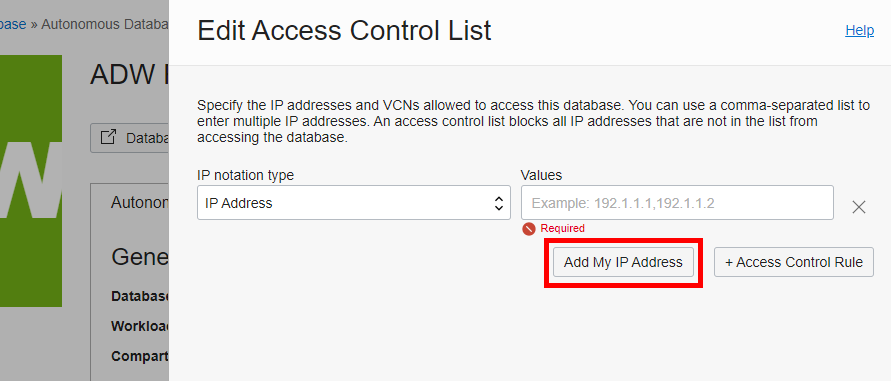
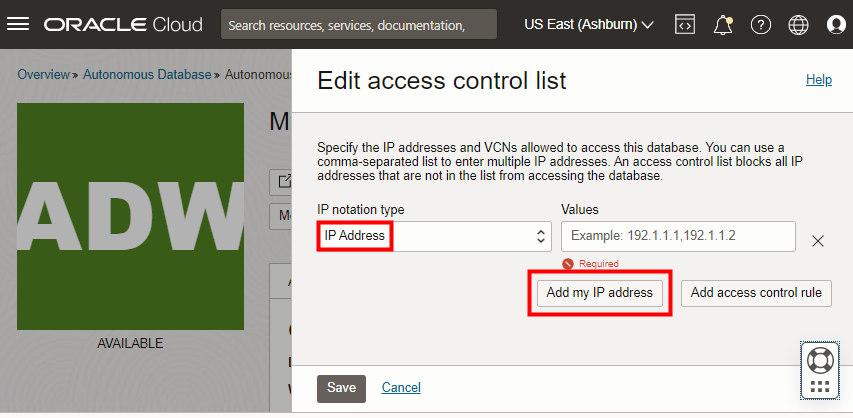
Workshops 142 and 141 Changes per Anoosha Pilli discussions to Workshop 142 and updates to Workshop 1 not-yet-visible data pipeline lab
Workshop 142 edits per discussion with Anoosha Pilli: changed Lab 3 with temporary workaround to bug preventing connecting SQL Developer in green button environment - temporarily using CIDR Block IP notation type with zero values, instead of IP Address as the IP notation type. Repositioned the Lab 5 final step instructing to change scaling back to 1 OCPU and 1 GB storage, making it the first step in Lab 7 on disaster recovery. Changed NOTES in several labs to use red font to be more prominent.

Workshop 141, in the not-yet-visible-in-manifest.json Lab 9 (optional): Create Data Pipelines for Continuous Data Import and Export, I changed the example to use MovieStream WEATHER data. This lab won't be made visible until Marty Gubar reviews it.

diff --git a/shared/adb-load-analyze-workshop/create-data-pipelines/create-data-pipelines.md b/shared/adb-load-analyze-workshop/create-data-pipelines/create-data-pipelines.md
@@ -53,7 +53,7 @@ Begin by creating a data pipeline to either load data or export data continuousl
      DBMS_CLOUD_PIPELINE.CREATE_PIPELINE(
         pipeline_name => 'MY_FIRST_PIPELINE',
         pipeline_type => 'LOAD',
-        description   => 'Load customer sales data from object store into a table'
+        description   => 'Load weather data from object store into a table'
     );
     END;
     /
@@ -62,7 +62,7 @@ Begin by creating a data pipeline to either load data or export data continuousl
 
 ## Task 2: Configure the data pipeline attributes
 
-Next, you will set the appropriate attributes for the data pipeline, such as the type of data files (for example JSON, CSV) and the location where the data files will exist (for example an object store bucket or file folder). In this lab, the data source will be a custsales CSV file that you will download and then upload to your object storage bucket. **CUSTSALES** will be the destination table in your autonomous database that your pipeline will load data into.
+Next, you will set the appropriate attributes for the data pipeline, such as the type of data files (for example JSON, CSV) and the location where the data files will exist (for example an object store bucket or file folder). In this lab, the data source will be a weather CSV file that you will download and then upload to your object storage bucket. **WEATHER** will be the destination table that you create in your autonomous database that your pipeline will load data into.
 
 1. Define the attributes for the data pipeline. The pipeline will import all data files of **CSV type** from an object storage bucket location at an interval of every 30 minutes (the default is 15 minutes) with a priority selected as High (that is, the HIGH database service name).
 
@@ -80,8 +80,8 @@ Next, you will set the appropriate attributes for the data pipeline, such as the
        attributes => JSON_OBJECT(
                     'credential_name' VALUE 'OBJ_STORE_CRED',
                     'location' VALUE 'https://objectstorage.us-phoenix-1.oraclecloud.com/n/namespace-string/b/mybucket/o/',
-                    'table_name' VALUE 'CUSTSALES',
-                    'format' VALUE '{"type": "json"}',
+                    'table_name' VALUE 'WEATHER',
+                    'format' VALUE '{"type": "csv"}',
                     'priority' VALUE 'HIGH', 'interval' VALUE '30') );
 
     END;
@@ -125,7 +125,7 @@ Before we activate your configured pipeline, let's test that it works. Call the 
     ```
     <copy>
     -- More details about the load operation in USER_LOAD_OPERATIONS.
-    SELECT   owner_name, type, status, start_time, update_time, status_table, rows_loaded, logfile_table, badfile_table
+    SELECT owner_name, type, status, start_time, update_time, status_table, rows_loaded, logfile_table, badfile_table
         FROM user_load_operations
         WHERE id = (SELECT operation_id
                    FROM user_cloud_pipelines
@@ -159,9 +159,21 @@ Before proceeding to Start your pipeline, you may use the `DBMS_CLOUD_PIPELINE.R
     </copy>
     ```
 
-## Task 5: Start the data pipeline
+## Task 5: Create the WEATHER table in the target Autonomous database
 
-Now that you have tested that your data pipeline is successfully configured, all you have left to do is simply start the pipeline.
+Before starting the data pipeline, create the WEATHER table in your target autonomous database that the data pipeline will load, when it detects data that you upload  to your object store.
+
+1. Run the following code snippet in your SQL worksheet:
+
+    ```
+    <copy>
+    CREATE TABLE WEATHER (location VARCHAR2(20), zipcode VARCHAR2(20), reported_date DATE, wind_avg NUMBER, precipitation NUMBER, snow NUMBER, snowdepth NUMBER, temp_max NUMBER, temp_min NUMBER);
+    </copy>
+    ```
+
+## Task 6: Start the data pipeline
+
+Now that you have tested that your data pipeline is successfully configured, and you have created the target WEATHER table in your autonomous database, all you have left to do is simply start the pipeline.
 
 Once your pipeline has been started, it is now running and since it is a load data pipeline, it will pick up new data files to load that have not been successfully processed yet, as they are moved into your object storage bucket.
 
@@ -180,39 +192,74 @@ It is important to note here that the load pipeline identifies, loads and keeps 
     </copy>
     ```
 
-## Task 6: Download data that you will later upload to object storage
+## Task 7: Download data that you will upload to object storage
 
-For this example, download a .CSV file containing customer sales information. In the next task, you will upload the data to your object storage bucket and test whether the pipeline automatically adds the data to your CUSTSALES table.
+For this example, download a .CSV file containing weather information. In the next task, you will upload the data to your object storage bucket and test whether the pipeline automatically adds the data to your WEATHER table.
 
 1. Copy and paste the following URL to your browser and press the **Enter** key on your keyboard. In the pop-up dialog, click **Save Link As…** to download the file to your computer.
 
     ```
     <copy>
-    https://objectstorage.us-ashburn-1.oraclecloud.com/n/c4u04/b/moviestream_landing/o/custsales/custsales-2020-12.csv
+    https://objectstorage.us-ashburn-1.oraclecloud.com/n/c4u04/b/moviestream_landing/o/weather/weather-newark-airport.csv
     </copy>
     ```
 
 2. Make note of the folder location - you will be using this file in the next task.
 
-## Task 7: Upload the data to your object storage bucket
+## Task 8: Upload the data to your object storage bucket
 
-Now you upload the data to your object storage bucket. The pipeline should detect this new data, and automatically load it into your autonomous database.
+Now you upload the `weather-newark-airport.csv` file to your object storage bucket. The pipeline should detect this new data, and automatically load it into your autonomous database.
 
-1. Upload the `custsales-2020-12.csv` file to your storage bucket. For guidance, look back at the steps that you performed in Lab 4, Tasks 2 and 3 to upload a local file to your bucket.
+1. Navigate back to the Data Load main page by returning to the Database Actions Launchpad and in the **Data Studio** section, click **DATA LOAD**.
 
-## Task 8: Check that the data pipeline loaded the data into the database
+    ![Go to DB Actions](./images/navigate-back-to-data-load.png)
 
-When you uploaded your new customer sales data to your object store, the pipeline should have detected the new data and loaded it to your target autonomous database.
+2. Leave the default selections, **LOAD DATA** and **LOCAL FILE**, and click **Next**.
 
-1. Check that your new data from December of 2020 was loaded from your object store to the CUSTSALES table in your database. In a SQL Worksheet, run the following query to show 10 rows of data where the DAY_ID is the first day of December 2020:
+    ![Select LOAD DATA and LOCAL FILE and click Next.](./images/select-load-data-and-local-file.png " ")
+
+3. The Local Files page enables you to drag and drop files to upload, or you can select files. Click **Select Files** and select `weather-newark-airport.csv` from the directory where you downloaded it.
+
+    ![Drag and drop or select the file.](./images/datatools-dataload-load-local-file.png " ")
+
+4. When the upload is complete, do not simply click the green arrow **Start** button to run the data load job, because we need to associate this file with
+
+
+
+
+Click the 3-dot ellipsis menu to the right of *customer-extension.csv* and click the **Settings** button labeled with a pencil symbol.
+
+    ![Update the data load job settings.](./images/click-settings-to-examine-data-load-job.png " ")
+
+5. A page opens for the local *customer-extension.csv* file that you will be loading. Take a moment to examine the preview information and loading options. Note that the tool makes intelligent choices for target table name and properties.  Since this is an initial load, accept the default option of **Create Table**, which conveniently creates the target table in the Autonomous Database, without the need to predefine the table in SQL. In the mappings section, notice that you can change the target column names and data types.
+
+    Update the table name to **CUSTOMER\_EXTENSION**. Click **Close** in the lower right corner of the page.
+
+    ![Examine the editor of the data load job.](./images/examine-data-load-job-editor.png " ")
+
+6. Click the green arrow **Start** button, and then click **Run** in the confirmation dialog.
+
+    ![Run the data load.](./images/run-the-data-load.png " ")
+
+7. When the load job finishes, a green check mark appears for each table. Click **Catalog** in the menu on the left.
+
+    ![Click Catalog in the menu on the left.](./images/click-catalog.png " ")
+
+8. The Catalog shows the *CUSTOMER\_SEGMENT* and *CUSTOMER\_EXTENSION* tables have been successfully created. You can click a table name to see the data.
+
+    ![View the new table in the Catalog.](./images/view-new-table.png " ")
+
+    ![See the new table's data.](./images/see-new-table-data.png " ")
+
+## Task 9: Check that the data pipeline loaded the data into the database
+
+When you uploaded your new weather data to your object store, the pipeline should have detected the new data and loaded it to your target autonomous database.
+
+1. Check that your weather data was loaded from your object store to the WEATHER table in your database. In a SQL Worksheet, run the following query to show 10 rows of data in the WEATHER table:
 
     ```
     <copy>
-    SELECT *
-    from
-    (SELECT *
-      from CUSTSALES
-      WHERE DAY_ID = "12/1/2020")
+    SELECT * from WEATHER
     WHERE ROWNUM <=10;
     /
     </copy>
@@ -230,7 +277,7 @@ The following link provides more information about Oracle Data Pipelines:
 
 * **Author** - Rick Green, Principal Developer, Database User Assistance
 * **Contributor** Nilay Panchal, Principal Product Manager, Autonomous Database
-* **Last Updated By/Date** - Rick Green, February 2023
+* **Last Updated By/Date** - Rick Green, April 2023
 
 Data about movies in this workshop were sourced from Wikipedia.
 

diff --git a/shared/adb-autonomous-data-guard/adb-autonomous-data-guard.md b/shared/adb-autonomous-data-guard/adb-autonomous-data-guard.md
@@ -85,13 +85,15 @@ The complete RTO and RPO Availability Service Level Objective that ADB targets c
 
 ## Task 1: Enable Autonomous Data Guard
 
-1. If you are not logged in to Oracle Cloud Console, log in and navigate to your **Autonomous Database details** page.
+1. *IMPORTANT: If you are running this workshop in a LiveLabs hosted sandbox, please change the scaling values back to their original settings of 1 OCPU and 1 TB of storage, to enable the lab on activating disaster recovery using Data Guard to have sufficient resources. To do this, go back to the Autonomous Database details page and click the Manage scaling button. If you are running this workshop in your own tenancy and you have sufficient OCPUs and storage, you can skip this step.*
 
-2. Scroll down to the **Resources** section and click **Disaster recovery**.
+2. If you are not logged in to Oracle Cloud Console, log in and navigate to your **Autonomous Database details** page.
+
+3. Scroll down to the **Resources** section and click **Disaster recovery**.
 
     ![Click Disaster recovery](./images/click-disaster-recovery.png)
 
-3. Note the display of the local backup copy that is one of your database's automatic daily backups. This is not a physical standby database, but simply a **backup copy** stored from the source (primary) database, which can be used to instantiate a new database at the time of switchover or failover. Backup-Based Disaster Recovery is examined in a later task. However, we want to enable Autonomous Data Guard, which will create a **standby database**, a replica of the primary database which will constantly and passively refresh (that is, replicate) data from the primary, which can be used in case of failure of the primary.
+4. Note the display of the local backup copy that is one of your database's automatic daily backups. This is not a physical standby database, but simply a **backup copy** stored from the source (primary) database, which can be used to instantiate a new database at the time of switchover or failover. Backup-Based Disaster Recovery is examined in a later task. However, we want to enable Autonomous Data Guard, which will create a **standby database**, a replica of the primary database which will constantly and passively refresh (that is, replicate) data from the primary, which can be used in case of failure of the primary.
 
     ![Note the listed backup copy](./images/note-the-backup-copy.png)
 
@@ -99,13 +101,13 @@ The complete RTO and RPO Availability Service Level Objective that ADB targets c
 
     ![Click the 3-dot ellipsis symbol](./images/click-3-dot-ellipsis-symbol.png)
 
-4. The **Update disaster recovery type** dialog appears. The **Backup-based disaster recovery** button is selected by default. Instead, select the **Autonomous Data Guard** button and click **Submit**.
+5. The **Update disaster recovery type** dialog appears. The **Backup-based disaster recovery** button is selected by default. Instead, select the **Autonomous Data Guard** button and click **Submit**.
 
     >**Note**: Read the information about recovery time and recovery point objectives, and the informational note.
 
     ![Select the Autonomous Data Guard button and click Submit](./images/select-autonomous-data-guard-and-submit.png)
 
-5. The Autonomous Database Lifecycle State changes to **Updating**. Depending on the size of your primary database this may take several minutes.
+6. The Autonomous Database Lifecycle State changes to **Updating**. Depending on the size of your primary database this may take several minutes.
 
     >**Note**: While you provision a new standby database, the primary database is available for read/write operations. Enabling Autonomous Data Guard is non-blocking; there is no downtime on the primary database.
 
@@ -119,11 +121,11 @@ The complete RTO and RPO Availability Service Level Objective that ADB targets c
 
     ![Examine the disaster recovery status after AuDG standby finishes provisioning](./images/disaster-recovery-status-of-audg-standby.png)
 
-6. You can create a total of two standby databases, one local and the other cross-region. You just enabled Autonomous Data Guard to create a local standby database. If your Oracle Cloud account has at least two regions, you can optionally create a second standby database that is cross-region.
+7. You can create a total of two standby databases, one local and the other cross-region. You just enabled Autonomous Data Guard to create a local standby database. If your Oracle Cloud account has at least two regions, you can optionally create a second standby database that is cross-region.
+
+    *Note: Creation of a cross region standby database is optional, if your Oracle Cloud account has at least two regions. Please skip these optional steps if you are running this workshop in a LiveLabs hosted sandbox environment or in an Always Free Database. Cross region standby databases are not yet supported in LiveLabs environments.*
 
     To perform this **optional step** of adding a second standby database that is cross-region, click **Add peer database**.
-
-    **Note:** Creation of a cross region standby database is optional, if your Oracle Cloud account has at least two regions. **Please skip these optional steps if you are running this workshop in a LiveLabs hosted sandbox environment or in an Always Free Database**. Cross region standby databases are not yet supported in LiveLabs environments.
 
     ![Click Add peer database](./images/click-add-peer-database.png)
 

diff --git a/shared/adw-connection-wallet/adw-connection-wallet.md b/shared/adw-connection-wallet/adw-connection-wallet.md
@@ -46,9 +46,15 @@ To create a new TLS connection to Autonomous Database:
 
     ![Click the Edit button next to Access control list](./images/click-edit-to-create-acl.png " ")
 
-2. In the **Edit Access Control List** dialog, click **Add My IP Address**. Your computer's IP address will be added as a value. Click **Save**. Wait a minute for the database status to change from UPDATING to AVAILABLE.
+2. In the **Edit access control list** dialog, you might normally accept the default IP notation type of **IP Address** and click **Add My IP Address**, and your computer's IP address would be added as a value. However, for this lab that you might be running in any one of a variety of different environments, let's make a different selection.
 
     ![Click Add My IP Address and click Save Changes](./images/click-add-my-ip-address.png " ")
+
+    For this lab, open the **IP notation type** drop-down menu and select **CIDR Block**. In the **Values** field, enter this value: *0.0.0.0/0*
+
+    ![Use the CIDR Block IP notation type with zero values and click Save](./images/use-cidr-block-ip-notation-type.png " ")
+
+    Click **Save**. Wait a minute for the database status to change from UPDATING to AVAILABLE.
 
 3. In the **Autonomous Database Details** page, in the **Network** section, note that the **Access type** has automatically changed from the default access type that you used when provisioning the database, **Allow secure access from everywhere**, to **Allow secure access from specified IPs and VCNs**. Click the **Edit** button next to **Mutual TLS (mTLS) authentication**.
 
@@ -190,4 +196,4 @@ View the blog post ["Connecting to Your Autonomous Database Has Never Been Easie
 
 - **Author** - Richard Green, Principal Developer, Database User Assistance
 - **Adapted for Cloud by** - Richard Green
-- **Last Updated By/Date** - Richard Green, March 2023
+- **Last Updated By/Date** - Richard Green, April 2023

diff --git a/shared/adb-event-alarm/adb-event-alarm.md b/shared/adb-event-alarm/adb-event-alarm.md
@@ -3,7 +3,7 @@
 
 ## Introduction
 
-> **Note:** the OCI Notifications service is not supported in the Livelabs hosted sandbox environment. If you are running this workshop in a LiveLabs sandbox, please view the steps in this lab to learn about setting event and alarm notifications. However, please do not attempt to perform the steps.
+*Note: the OCI Notifications service is not supported in the Livelabs hosted sandbox environment. If you are running this workshop in a LiveLabs sandbox, please view the steps in this lab to learn about setting event and alarm notifications. However, please do not attempt to perform the steps.*
 
 The Oracle Cloud Infrastructure (OCI) Notifications service broadcasts messages to distributed components through a publish-subscribe pattern, delivering secure, highly reliable, low latency and durable messages for applications hosted on OCI and externally.
 
@@ -40,7 +40,7 @@ In Tasks 1 through 7, you create a notification topic with an email subscription
 
 ## Task 1: Sign in to OCI Console and Create a Notification Topic
 
-> **Note:** Again, please note that the OCI Notifications service is not supported in the Livelabs hosted sandbox environment. If you are running this workshop in a LiveLabs sandbox, please view the steps in this lab to learn about setting event and alarm notifications. However, please do not attempt to perform the steps.
+*Note: Again, please note that the OCI Notifications service is not supported in the Livelabs hosted sandbox environment. If you are running this workshop in a LiveLabs sandbox, please view the steps in this lab to learn about setting event and alarm notifications. However, please do not attempt to perform the steps.*
 
 1. First, you will create a Notification topic. From OCI Services menu, click **Developer Services** -> **Notifications**
   ![ALT text is not available for this image](images/2570118073.png)

diff --git a/shared/adw-scaling-performance/adw-scaling-performance.md b/shared/adw-scaling-performance/adw-scaling-performance.md
@@ -40,8 +40,6 @@ Estimated Time: 10 minutes
 
     ![A refreshed database console page with updated OCPU count and storage.](./images/the-result-of-scaling.png " ")
 
-6. **IMPORTANT**: If you are running this workshop in a LiveLabs hosted sandbox, please change the scaling values back to their original settings of 1 OCPU and 1 TB of storage, to enable the lab on activating disaster recovery using Data Guard to have sufficient resources. If you are running this workshop in your own tenancy and you have sufficient OCPUs and storage, you can skip this step.
-
 ## Task 2: Performance and Concurrency Benefits of Dynamic Scaling
 
 1.  Watch a demo of the performance impact of scaling up your instance. It shows how you can dynamically scale up a database while the workload is running, to increase transaction throughput. Scaling up can also provide more concurrency for your users.

diff --git a/shared/adb-data-safe/adb-data-safe.md b/shared/adb-data-safe/adb-data-safe.md
@@ -37,7 +37,7 @@ This lab assumes you have:
 
 ## Task 1: Create a user group and add an Oracle Cloud account to the group
 
-> **Note**: If you are running this workshop in an **Oracle LiveLabs sandbox** hosted environment, please skip Tasks 1 and 2, as their steps have already been performed for you in the hosted environment.
+*Note: If you are running this workshop in an Oracle LiveLabs sandbox hosted environment, please skip Tasks 1 and 2, as their steps have already been performed for you in the hosted environment.*
 
 As a tenancy administrator, create a user group and add an Oracle Cloud account to the group.
 
